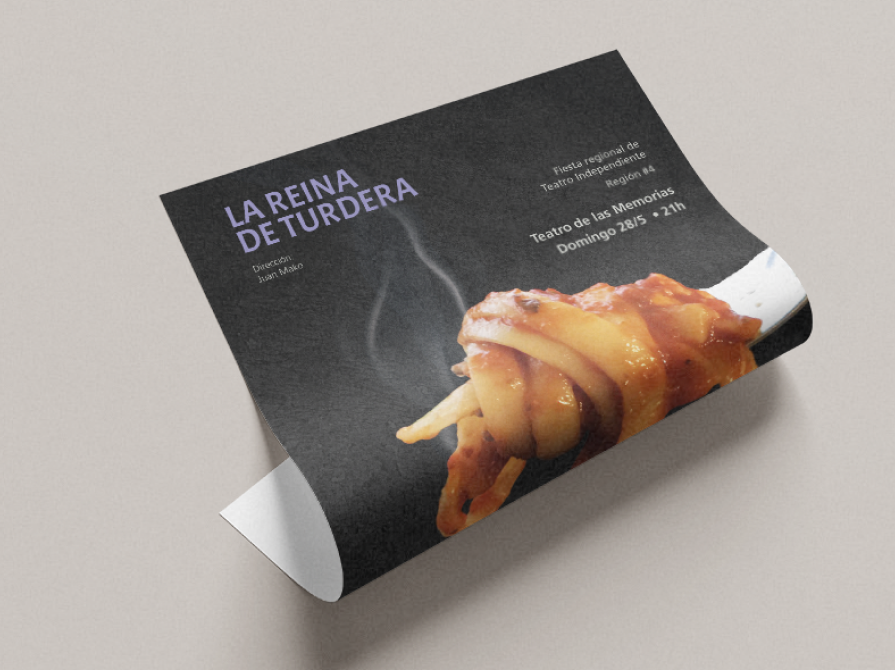
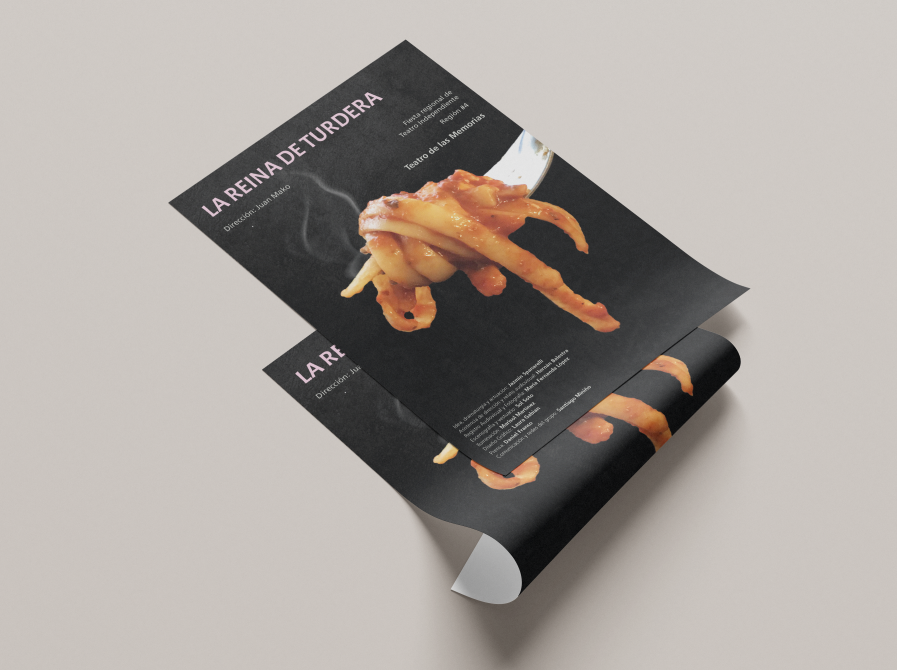
avances en galeria

diff --git a/biro.html b/biro.html
@@ -10,12 +10,11 @@
     <link rel="preconnect" href="https://fonts.gstatic.com" crossorigin>
     <link href="https://fonts.googleapis.com/css2?family=Montserrat:ital@0;1&display=swap" rel="stylesheet">
 </head>
-<body>
-<!--inicio del header-->
+<body> 
     <header>
         <nav class="botonera"> 
             <div class="destello_nav">
-                <h5>CS</h5>
+                <h5>Cami</h5>
                 <a href="index.html"> <img src="img/sobremi/destello_nav.png" width="50px" height="50px"alt="destello_nav"> </a>
             </div>
             <ul>
@@ -23,11 +22,47 @@
                     <a href="index.html"> Sobre Mi</a>
                 </li>
                 <li>
-                        <a href="proyectos.html"> Proyectos</a>
+                    <a href="#proyectos"> Proyectos</a>
                 </li>
                 <li>
                     <a href="contactame.html"> Contratar</a>
                 </li>
             </ul>
         </nav>
-    </header>
+    </header> 
+    <main>
+        <section class="proyecto">
+            <div class="textoproyecto">
+                <p><strong>Infográfia “de Biro a Birome”</strong><br><br>Este proyecto se realizó para la materia de Tipografía III. La consigna era diseñar una infografía sobre un invento Argentino.</p>
+                <img class="destsinfondo" src="img/proyectos/destello_proyecto.png" alt="destello">
+            </div>
+        </section>
+        </section>
+        <div class="galeria">
+            <img src="img/proyectos/rath1360x825.png" width="1360px" height="825px" alt="rathaus">
+            <img src="img/proyectos/rathmer_650x495 1.png" width="650px" height="495px" alt="rathaus">
+            <img src="img/proyectos/rathafiche_650x495.png" width="650px" height="495px" alt="rathaus">
+            <img src="img/proyectos/ratlibros_1368x499.png" width="1368px" height="499px" alt="rathaus">
+        </div>
+        <a href="rathaus.html"><div class="flecha"><img src="img/sobremi/flecha.png" width="80px" height="80px" alt="flecha"></div></a>
+    </main>
+<!--INICIO FOOTER-->
+    <footer>
+        <div class="portfolio">
+            <h3>Portfolio Camila Segovia</h3>
+            <ul>
+                <li>2024 Computación III</li>
+                <li>Catédra Wischñevsky</li>
+                <li>UNla</li>
+            </ul>
+        </div>
+        <div class="redes">
+            <h4>Seguime en redes</h4>
+            <ul>
+                <li><a href="https://www.facebook.com/cami.segovia.1/" target="_blank"> <img src="img/sobremi/facebook.png" width="50px" height="50px" alt="iconofacebook"></a></li>
+                <li><a href="https://www.instagram.com/cam.segovia/" target="_blank"><img src="img/sobremi/instagram.png" width="50px" height="50px" alt="iconoinstagram"></a></li>
+                <li><a href="https://x.com/CaamSegovia" target="_blank"> <img src="img/sobremi/twitter.png" width="50px" height="50px" alt="iconotwitter"></a></li>
+            </ul>
+        </div>
+    </footer>
+</body>

diff --git a/teatro.html b/teatro.html
@@ -22,7 +22,7 @@
                     <a href="index.html"> Sobre Mi</a>
                 </li>
                 <li>
-                    <a href="proyectos.html"> Proyectos</a>
+                    <a href="#proyectos"> Proyectos</a>
                 </li>
                 <li>
                     <a href="contactame.html"> Contratar</a>
@@ -30,3 +30,39 @@
             </ul>
         </nav>
     </header> 
+    <main>
+        <section class="proyecto">
+            <div class="textoproyecto">
+                <p><strong>Fiesta regional de Teatro Independiente- Región #4</strong><br><br>
+                    Este proyecto se realizó para la materia Taller 2, cátedra Lo Bianco. La consigna era diseñar tres afiches en sistema para diferentes obras teatrales organizadas por el Festival Regional de Teatro Independiente. </p>
+                <img class="destsinfondo" src="img/proyectos/destello_proyecto.png" alt="destello">
+            </div>
+        </section>
+        </section>
+        <div class="galeria">
+            <img src="img/proyectos/afichesteatroturd_1360x1016.png" width="1360px" height="1016px" alt="teatro">
+            <img src="img/proyectos/afichesteat_650x487.png" width="650px" height="487px" alt="teatro">
+            <img src="img/proyectos/afichesteatro_650x487.png" width="650px" height="487px" alt="teatro">
+        </div>
+        <a href="teatro.html"><div class="flecha"><img src="img/sobremi/flecha.png" width="80px" height="80px" alt="flecha"></div></a>
+    </main>
+<!--INICIO FOOTER-->
+    <footer>
+        <div class="portfolio">
+            <h3>Portfolio Camila Segovia</h3>
+            <ul>
+                <li>2024 Computación III</li>
+                <li>Catédra Wischñevsky</li>
+                <li>UNla</li>
+            </ul>
+        </div>
+        <div class="redes">
+            <h4>Seguime en redes</h4>
+            <ul>
+                <li><a href="https://www.facebook.com/cami.segovia.1/" target="_blank"> <img src="img/sobremi/facebook.png" width="50px" height="50px" alt="iconofacebook"></a></li>
+                <li><a href="https://www.instagram.com/cam.segovia/" target="_blank"><img src="img/sobremi/instagram.png" width="50px" height="50px" alt="iconoinstagram"></a></li>
+                <li><a href="https://x.com/CaamSegovia" target="_blank"> <img src="img/sobremi/twitter.png" width="50px" height="50px" alt="iconotwitter"></a></li>
+            </ul>
+        </div>
+    </footer>
+</body>

diff --git a/index.html b/index.html
@@ -82,7 +82,7 @@
         </section>
         <section>
             <div class="titulos">
-                <h2>Mi playlist mas escuchada</h2>
+                <h2>Mi playlist recomendada</h2>
                 <img src="img/sobremi/destmichis.png" width="77px" height="80px" alt="destmichis">
             </div>
             <div class="playlist">
@@ -224,7 +224,7 @@
             <ul>
                 <li>2024 Computación III</li>
                 <li>Catédra Wischñevsky</li>
-                <li>Turno noche</li>
+                <li>UNla</li>
             </ul>
         </div>
         <div class="redes">

diff --git a/contactame.html b/contactame.html
@@ -75,7 +75,7 @@
             <ul>
                 <li>2024 Computación III</li>
                 <li>Catédra Wischñevsky</li>
-                <li>Turno noche</li>
+                <li>UNla</li>
             </ul>
         </div>
         <div class="redes">

diff --git a/style.css b/style.css
@@ -454,7 +454,7 @@ footer h3{
     flex-wrap: wrap;
 }
 .galeria img{
-    box-shadow: 0px 4px 4px 0px rgba(0, 0, 0, 0.25);
+    box-shadow: 0px 2px 2px 0px rgba(0, 0, 0, 0.25);
 }
 .descripcion{
     display: inline-flex;
